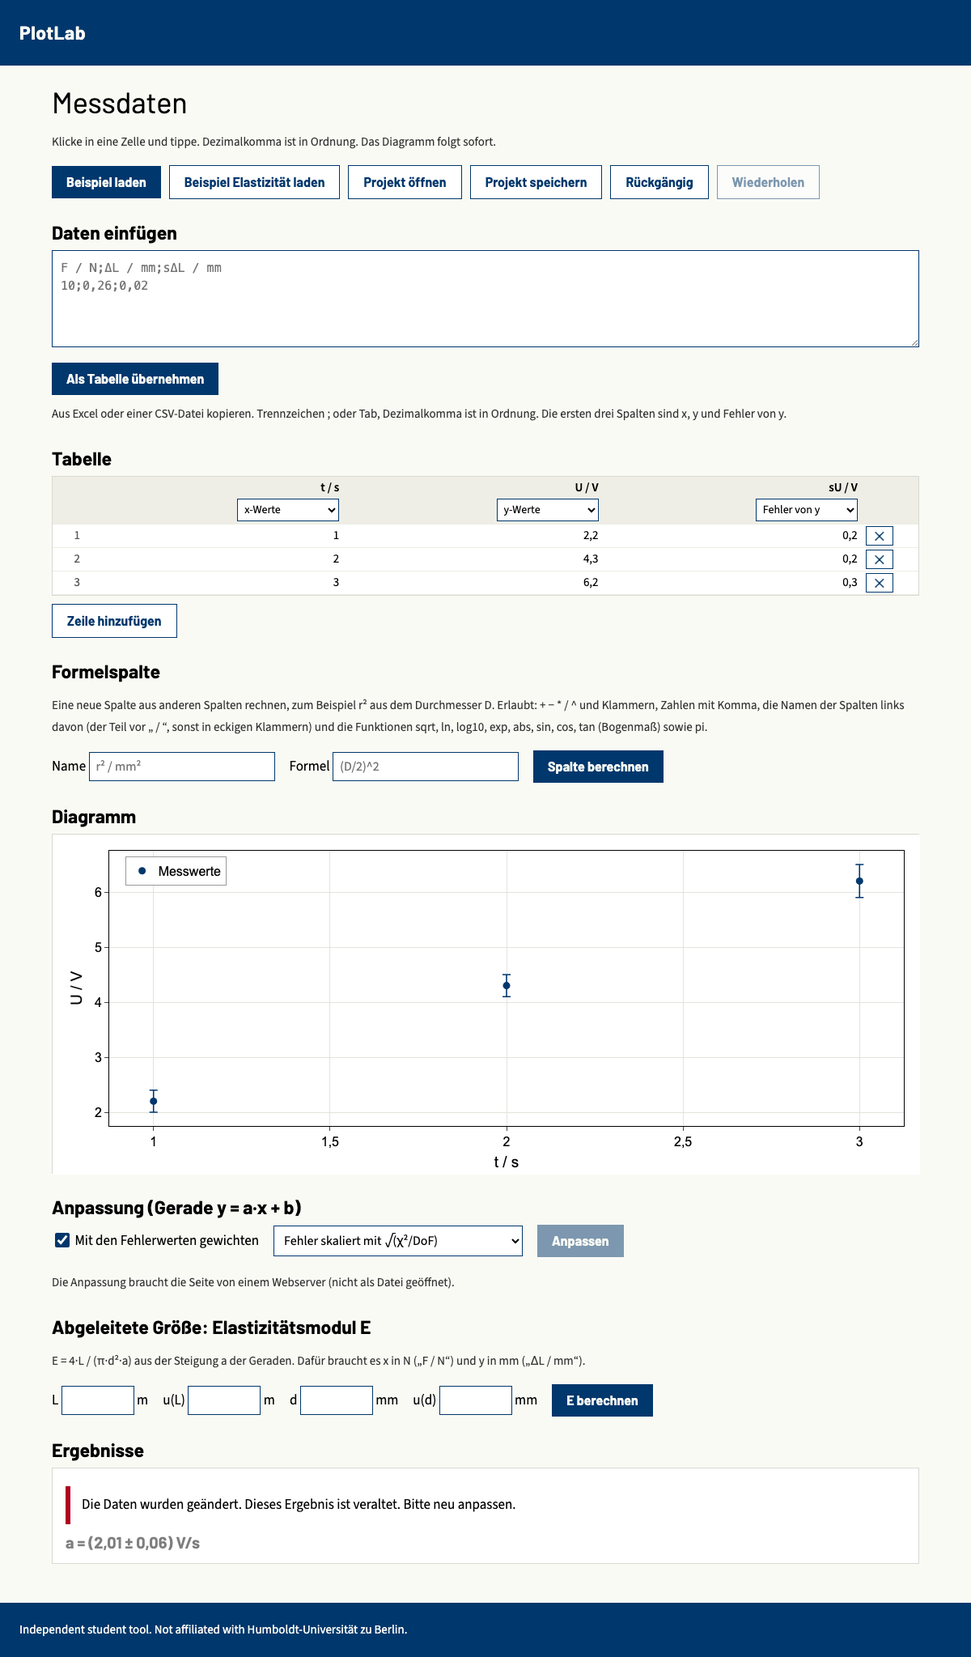
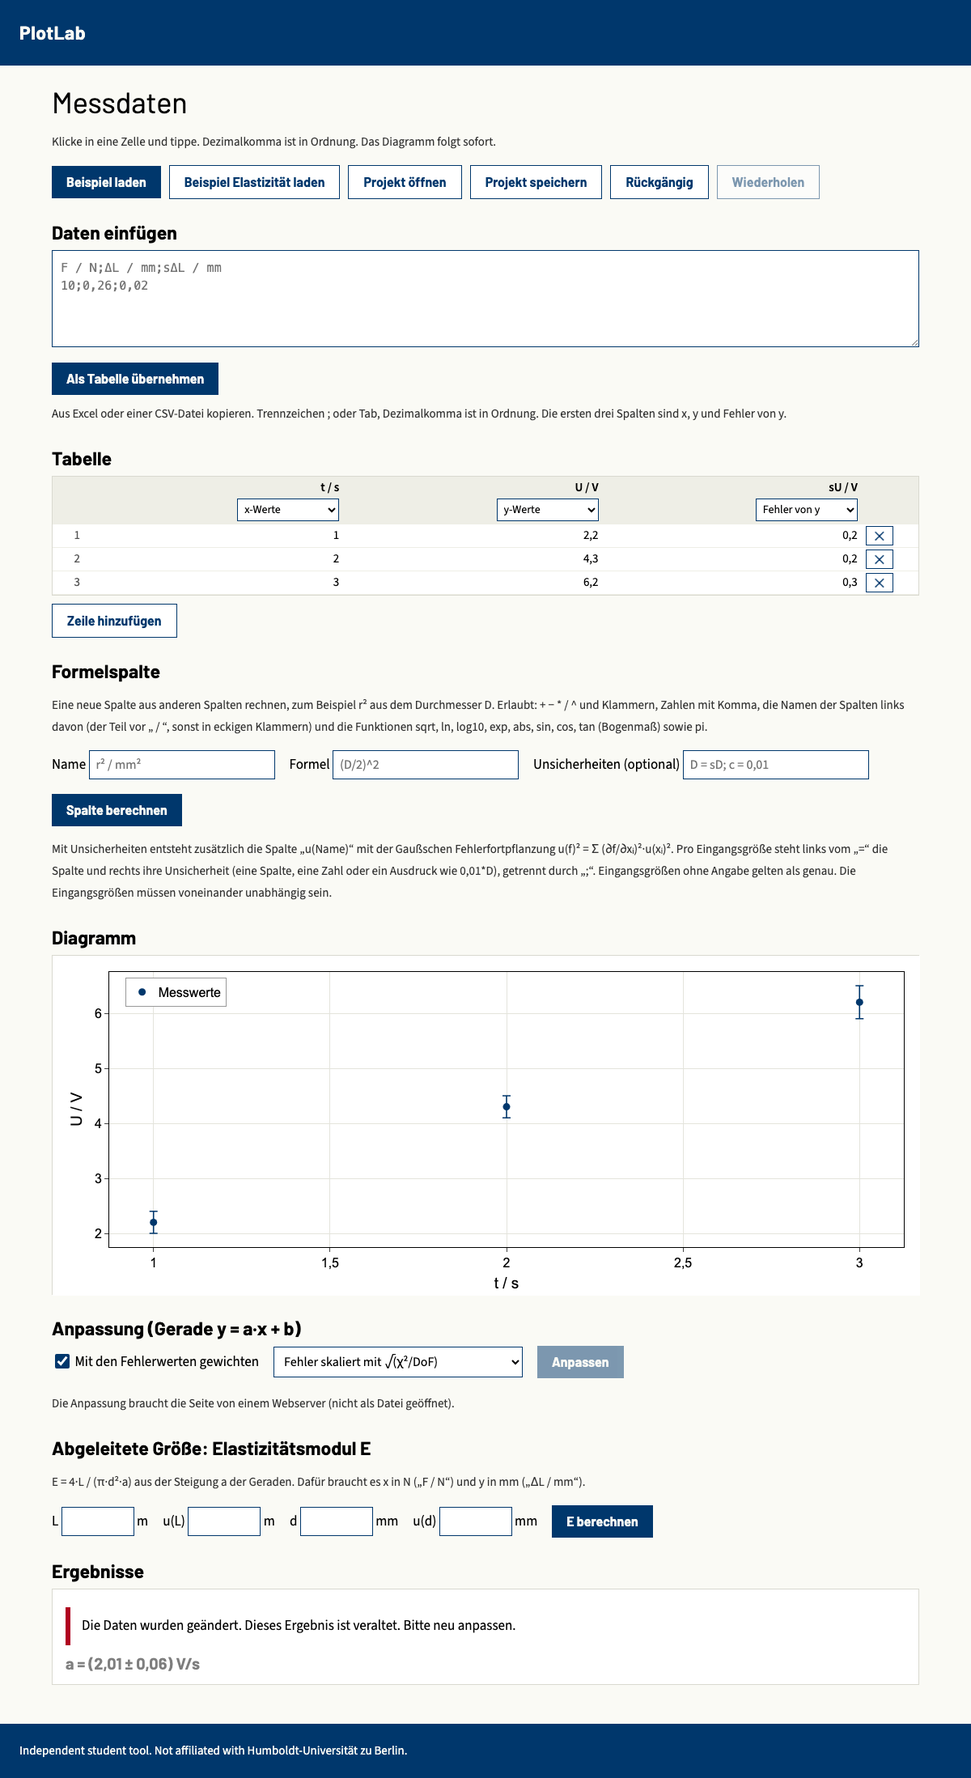
Phase 2 step 2: uncertainty columns with error propagation for formula columns

diff --git a/app/index.html b/app/index.html
@@ -91,8 +91,10 @@
   <div class="fitbar">
     <label>Name <input class="txt" id="f_name" aria-label="Name der neuen Spalte" placeholder="r² / mm²" autocomplete="off"></label>
     <label>Formel <input class="txt" id="f_expr" aria-label="Formel der neuen Spalte" placeholder="(D/2)^2" autocomplete="off" spellcheck="false"></label>
+    <label>Unsicherheiten (optional) <input class="txt" id="f_unc" aria-label="Unsicherheiten der Eingangsgrößen" placeholder="D = sD; c = 0,01" autocomplete="off" spellcheck="false"></label>
     <button class="btn" id="f_add" disabled>Spalte berechnen</button>
   </div>
+  <p class="hint">Mit Unsicherheiten entsteht zusätzlich die Spalte „u(Name)“ mit der Gaußschen Fehlerfortpflanzung u(f)² = Σ (∂f/∂xᵢ)²·u(xᵢ)². Pro Eingangsgröße steht links vom „=“ die Spalte und rechts ihre Unsicherheit (eine Spalte, eine Zahl oder ein Ausdruck wie 0,01*D), getrennt durch „;“. Eingangsgrößen ohne Angabe gelten als genau. Die Eingangsgrößen müssen voneinander unabhängig sein.</p>
   <div id="fmsg" class="msg" role="alert" hidden></div>
   <h2>Diagramm</h2>
   <div id="plot"><div class="empty">Noch keine Daten.</div></div>
@@ -123,6 +125,7 @@
 <script src="../testbuild/parse.js"></script>
 <script src="project.js"></script>
 <script src="formula.js"></script>
+<script src="propagate.js"></script>
 <script src="derive.js"></script>
 <script>
 const $ = id => document.getElementById(id);
@@ -189,14 +192,15 @@ function setProject(p) {
 }
 function showMsg(t) { $("msg").textContent = t; $("msg").hidden = false; }
 
+const isCalc = c => c.formula !== undefined || c.uncert !== undefined;
 const fmtCalc = new Intl.NumberFormat("de-DE", { maximumSignificantDigits: 8 });
 const calcText = (c, i) => c.values[i] === null ? "" : fmtCalc.format(c.values[i]);
 function renderTable() {
   const roleSel = (c, j) => `<select class="role" data-role="${j}" aria-label="Rolle von ${esc(c.name)}">` +
     Object.entries(ROLE_LABELS).map(([r, t]) => `<option value="${r}"${c.role === r ? " selected" : ""}>${t}</option>`).join("") + "</select>";
-  const head = "<tr><th></th>" + proj.columns.map((c, j) => `<th>${esc(c.name)}${c.formula !== undefined ? `<div class="fx">= ${esc(c.formula)}</div>` : ""}${roleSel(c, j)}${c.formula !== undefined ? `<button class="btn alt small" data-delcol="${j}" aria-label="Spalte ${esc(c.name)} entfernen">Spalte entfernen</button>` : ""}</th>`).join("") + "<th></th></tr>";
+  const head = "<tr><th></th>" + proj.columns.map((c, j) => `<th>${esc(c.name)}${c.formula !== undefined ? `<div class="fx">= ${esc(c.formula)}</div>` : ""}${c.uncert ? `<div class="fx">Gauß-Fortpflanzung von ${esc(c.uncert.formula)}: ${esc(c.uncert.map)}</div>` : ""}${roleSel(c, j)}${isCalc(c) ? `<button class="btn alt small" data-delcol="${j}" aria-label="Spalte ${esc(c.name)} entfernen">Spalte entfernen</button>` : ""}</th>`).join("") + "<th></th></tr>";
   const body = Array.from({ length: nrows() }, (_, i) => `<tr><td class="n">${i + 1}</td>` +
-    proj.columns.map((c, j) => c.formula !== undefined ? `<td class="calc" data-calc="${j}">${calcText(c, i)}</td>` : `<td><input data-r="${i}" data-c="${j}" aria-label="${esc(c.name)}, Zeile ${i + 1}" value="${c.values[i] === null ? "" : fmt.format(c.values[i])}" inputmode="decimal"></td>`).join("") +
+    proj.columns.map((c, j) => isCalc(c) ? `<td class="calc" data-calc="${j}">${calcText(c, i)}</td>` : `<td><input data-r="${i}" data-c="${j}" aria-label="${esc(c.name)}, Zeile ${i + 1}" value="${c.values[i] === null ? "" : fmt.format(c.values[i])}" inputmode="decimal"></td>`).join("") +
     `<td><button class="btn alt small" data-del="${i}" aria-label="Zeile ${i + 1} löschen">✕</button></td></tr>`).join("");
   $("table").innerHTML = `<table><thead>${head}</thead><tbody>${body}</tbody></table>`;
 }
@@ -313,8 +317,17 @@ $("f_add").onclick = () => {
   if (proj.columns.some(c => c.name === name)) return fail(`Es gibt schon eine Spalte „${name}“. Bitte einen anderen Namen wählen.`);
   const r = parseFormula(expr, proj.columns);
   if (r.error) return fail(r.error);
-  change(() => proj.columns.push({ name, role: "unused", values: [], formula: expr.trim() }));
-  $("f_name").value = $("f_expr").value = "";
+  const unc = $("f_unc").value.trim(), [short, ...unit] = name.split(" / "), uname = `u(${short.trim()})` + (unit.length ? " / " + unit.join(" / ") : "");
+  if (unc) {
+    if (proj.columns.some(c => c.name === uname)) return fail(`Es gibt schon eine Spalte „${uname}“. Bitte einen anderen Namen wählen.`);
+    const u = parseUncertainty(expr.trim(), unc, proj.columns, proj.columns.length);
+    if (u.error) return fail(u.error);
+  }
+  change(() => {
+    proj.columns.push({ name, role: "unused", values: [], formula: expr.trim() });
+    if (unc) proj.columns.push({ name: uname, role: "unused", values: [], uncert: { formula: expr.trim(), map: unc } });
+  });
+  $("f_name").value = $("f_expr").value = $("f_unc").value = "";
 };
 $("pastego").onclick = () => {
   const r = parseTable($("paste").value);

diff --git a/app/propagate.js b/app/propagate.js
@@ -1,0 +1,65 @@
+// Error propagation for formula columns (Gaussian, independent inputs): u(f)² = Σ (∂f/∂xᵢ)² · u(xᵢ)².
+// A column {name, uncert: {formula, map}} holds u(f) for the formula text `formula`; `map` is "D = sD; c = 0,01":
+// per input column an expression for its uncertainty (a column, a number, or e.g. 0,01*D). Inputs not listed are exact.
+// The partial derivatives are central differences of the parsed formula (no eval), good to about 1e-9 relative.
+const _F = typeof module !== "undefined" ? require("./formula.js") : { parseFormula, FORMULA_HOOKS };
+
+// Returns {fn, refs, terms: [{j, refs, u}]} or {error}. Only columns left of `upto` can be used.
+function parseUncertainty(formula, map, columns, upto) {
+  const f = _F.parseFormula(formula, columns, upto);
+  if (f.error) return f;
+  const entries = String(map).split(";").map(e => e.trim()).filter(Boolean);
+  if (!entries.length) return { error: "Bitte die Unsicherheiten angeben, zum Beispiel D = sD; c = 0,01." };
+  const terms = [];
+  for (const e of entries) {
+    const k = e.indexOf("=");
+    if (k < 0) return { error: `„${e}“: Es fehlt ein „=“. Schreibe zum Beispiel D = sD (Unsicherheit von D steht in Spalte sD) oder D = 0,05.` };
+    const key = e.slice(0, k).trim().replace(/^\[(.*)\]$/, "$1"), j = f.lookup(key);
+    if (j === undefined) return { error: `Unsicherheiten: Unbekannte Spalte „${key}“.` };
+    if (j === -1) return { error: `Unsicherheiten: Der Spaltenname „${key}“ ist nicht eindeutig. Schreibe den vollen Namen in eckigen Klammern.` };
+    if (!f.refs.includes(j)) return { error: `Unsicherheiten: „${key}“ kommt in der Formel nicht vor.` };
+    if (terms.some(t => t.j === j)) return { error: `Unsicherheiten: „${key}“ ist doppelt angegeben.` };
+    const u = _F.parseFormula(e.slice(k + 1), columns, upto);
+    if (u.error) return { error: `Unsicherheit von „${key}“: ${u.error}` };
+    terms.push({ j, refs: u.refs, u: u.fn });
+  }
+  return { fn: f.fn, refs: f.refs, terms };
+}
+
+// ∂f/∂x_j at `row`: central difference; at the edge of the domain (sqrt at 0) one-sided.
+function partial(fn, row, j) {
+  const x = row[j], h = 1e-6 * (Math.abs(x) || 1), f0 = () => fn(row);
+  const at = d => { const r = row.slice(); r[j] = x + d; const v = fn(r); if (!Number.isFinite(v)) throw "Das Ergebnis ist keine endliche Zahl"; return v; };
+  let last = "Ableitung nicht berechenbar";
+  for (const d of [() => (at(h) - at(-h)) / (2 * h), () => (at(h) - f0()) / h, () => (f0() - at(-h)) / h]) {
+    try { return d(); } catch (e) { if (typeof e !== "string") throw e; last = e; }
+  }
+  throw last;
+}
+
+// Fills column c (index j of columns, n rows) with u(f); returns German messages like recalcFormulas does.
+function propagateColumn(c, columns, j, n) {
+  const r = parseUncertainty(c.uncert.formula, c.uncert.map, columns, j);
+  if (r.error) { c.values = Array(n).fill(null); return [`Spalte „${c.name}“: ${r.error}`]; }
+  const need = [...new Set([...r.refs, ...r.terms.flatMap(t => t.refs)])], bad = [];
+  c.values = Array.from({ length: n }, (_, i) => {
+    const row = columns.map(k => k.values[i]);
+    if (need.some(k => row[k] === null || row[k] === undefined)) return null;
+    try {
+      let s = 0;
+      for (const t of r.terms) {
+        const u = t.u(row);
+        if (!Number.isFinite(u) || u < 0) throw "Die Unsicherheit ist negativ oder keine Zahl";
+        s += (partial(r.fn, row, t.j) * u) ** 2;
+      }
+      return Math.sqrt(s);
+    } catch (e) {
+      if (typeof e !== "string") throw e;
+      bad.push([i + 1, e]); return null;
+    }
+  });
+  return bad.length ? [`Spalte „${c.name}“, Zeile ${bad[0][0]}: ${bad[0][1]}. Der Wert bleibt leer.` + (bad.length > 1 ? ` Weitere betroffene Zeilen: ${bad.slice(1).map(b => b[0]).join(", ")}.` : "")] : [];
+}
+_F.FORMULA_HOOKS.uncert = propagateColumn;
+
+if (typeof module !== "undefined") module.exports = { parseUncertainty, propagateColumn };

diff --git a/app/formula.js b/app/formula.js
@@ -11,8 +11,11 @@ FORMULA_FUNCTIONS.wurzel = FORMULA_FUNCTIONS.sqrt;
 const FORMULA_CONSTANTS = { pi: Math.PI };
 const FORMULA_MAX_LENGTH = 300;
 const shortName = n => n.split(" / ")[0].trim();
+// Other files (propagate.js) register how to recalculate special columns here: FORMULA_HOOKS.uncert(column, columns, index, rows).
+const FORMULA_HOOKS = {};
 
-// Returns {fn, refs} (fn(valuesOfRow) -> number, refs = column indexes it reads) or {error} (German message).
+// Returns {fn, refs, lookup} (fn(valuesOfRow) -> number, refs = column indexes it reads, lookup(name) -> column index,
+// undefined if unknown, -1 if ambiguous) or {error} (German message).
 // ponytail: names are looked up among columns 0..upto-1 only.
 function parseFormula(text, columns, upto = columns.length) {
   const src = String(text).replace(/[·×]/g, "*").replace(/−/g, "-").replace(/÷/g, "/");
@@ -100,7 +103,7 @@ function parseFormula(text, columns, upto = columns.length) {
   try {
     const fn = expr();
     if (peek().t !== "end") fail(`Unerwartet: ${show(peek())}. Fehlt ein Operator (+ − * / ^)?`);
-    return { fn, refs: [...refs] };
+    return { fn, refs: [...refs], lookup };
   } catch (e) {
     if (e && typeof e.parse === "string") return { error: e.parse };
     throw e;
@@ -112,6 +115,7 @@ function parseFormula(text, columns, upto = columns.length) {
 function recalcFormulas(p) {
   const msgs = [], n = p.columns[0].values.length;
   p.columns.forEach((c, j) => {
+    if (c.uncert && FORMULA_HOOKS.uncert) { msgs.push(...FORMULA_HOOKS.uncert(c, p.columns, j, n)); return; }
     if (typeof c.formula !== "string") return;
     const r = parseFormula(c.formula, p.columns, j);
     if (r.error) { c.values = Array(n).fill(null); msgs.push(`Spalte „${c.name}“: ${r.error}`); return; }
@@ -133,4 +137,4 @@ function recalcFormulas(p) {
   return msgs;
 }
 
-if (typeof module !== "undefined") module.exports = { parseFormula, recalcFormulas };
+if (typeof module !== "undefined") module.exports = { parseFormula, recalcFormulas, shortName, FORMULA_HOOKS };

diff --git a/app/project.js b/app/project.js
@@ -37,7 +37,8 @@ function open(text) {
   if (!p || p.format !== "datenplot-projekt") return { error: "Die Datei ist kein Projekt dieser Anwendung." };
   if (p.version !== 1) return { error: `Projektversion ${p.version} wird nicht unterstützt.` };
   const ok = Array.isArray(p.columns) && p.columns.length && Array.isArray(p.results) && p.settings &&
-    p.columns.every(c => typeof c.name === "string" && (c.formula === undefined || typeof c.formula === "string") && ROLES.includes(c.role) && Array.isArray(c.values) &&
+    p.columns.every(c => typeof c.name === "string" && (c.formula === undefined || typeof c.formula === "string") &&
+      (c.uncert === undefined || (c.uncert !== null && typeof c.uncert.formula === "string" && typeof c.uncert.map === "string")) && ROLES.includes(c.role) && Array.isArray(c.values) &&
       c.values.length === p.columns[0].values.length && c.values.every(v => v === null || Number.isFinite(v)));
   return ok ? { project: p } : { error: "Das Projekt ist beschädigt: Spalten oder Werte fehlen oder sind keine Zahlen." };
 }

diff --git a/docs/progress.md b/docs/progress.md
@@ -8,7 +8,7 @@ Read by every round of the loop (see docs/loop-prompt.md). Keep the first line e
 Phase 1 is finished (see `docs/phase1-report.md`). Phase 2 **assumes P1 to P9** of `docs/lab-assignments-checklist.md` because the real experiment list from Luis's daughter is not known yet; revise these steps when she answers. Every number test uses hand calculations or textbook table values written separately from the app, never the app's own output. Every step ends with `bash scripts/check.sh` passing, a browser test with a screenshot, and one bad-input check. Also move what the app borrows from `testbuild/` (fonts, Plotly, round.js, parse.js, fit worker, Pyodide) into `app/` at the first step that touches it, and keep `testbuild/` tests passing until then.
 
 - [x] 1. Formula columns, values only (P2, P5, P6): a new column defined by a formula over other columns (`+ - * / ^`, `sqrt`, `ln`, `log10`, `pi`, German column names, decimal comma). Recalculates when data changes, saved in the project, undo works. Test: r² and d·c columns from the P5 sheet against hand values; a formula with an unknown column name or a division by zero shows a clear message.
-- [ ] 2. Error propagation for formula columns (P2, P5, P6): optional uncertainty column per formula result, Gaussian propagation from the uncertainties of the inputs (independent inputs). Test: product, quotient and square-root cases against hand-derived partial derivatives, including the Wheatstone bridge Rx = R1·R2/R3 case.
+- [x] 2. Error propagation for formula columns (P2, P5, P6): optional uncertainty column per formula result, Gaussian propagation from the uncertainties of the inputs (independent inputs). Test: product, quotient and square-root cases against hand-derived partial derivatives, including the Wheatstone bridge Rx = R1·R2/R3 case.
 - [ ] 3. Mean, standard deviation (n or n−1, chosen by the student), standard error, and random plus instrument error combined in quadrature (P2 volume measurement, P1). Test: a 10-value sample against hand values for both choices of n; result lines in HU format.
 - [ ] 4. Weighted mean with uncertainty and an overlap check of several results (P2). Test: three volume results with different uncertainties against hand values (w = 1/u², mean, 1/√Σw); the overlap verdict (within k·u) matches the hand check.
 - [ ] 5. Frequency table (absolute, relative, cumulative) and histogram with the fitted normal curve (P1). Test: 30 hand-made readings, bin counts and normal-curve height against hand values; axis labels carry quantity and unit.
@@ -76,3 +76,4 @@ Phase 1 is finished (see `docs/phase1-report.md`). Phase 2 **assumes P1 to P9** 
 - 2026-10-14, Phase 1 step 7: The line fit was checked against independent references and the check found a real weakness: the old fit (SciPy `curve_fit`, which iterates) matched the official NIST dataset Norris (36 points) only to 7.6 digits for the intercept and 5.5 digits for the slope error. The straight-line fit now solves the problem directly (SVD least squares in the Python worker), and `curve_fit` stays for Michaelis-Menten and the NIST nonlinear checks. Result against NIST certified values: slope 1,00211681802 and intercept -0,262323073774 correct to 9 or more digits, standard errors (0,000429796848 and 0,232818234301) 9 digits, residual sum of squares 26,6173985294 and 34 degrees of freedom exact. Weighted fits: (1) with equal errors the scaled-error weighted fit must equal the unweighted one, so it matches NIST too (9 digits); (2) a 7-point case with unequal errors checked against a separate Python script (`tests/reference/weighted_line.py`, exact fractions, other formulas): a = 1,86588504, b = 0,85012444, scaled errors 0,0736838 and 0,151466, unscaled 0,0512457 and 0,105342, χ² 10,3371, all 9 digits. On screen: Norris reads a = (1,0021 ± 0,0004), b = (-0,26 ± 0,23); the 7-point case a = (1,87 ± 0,07) scaled and (1,87 ± 0,05) unscaled, both rounded by hand. Test: `tests/phase1-step7-reference.sh` (failed with the old code, passes now); all 14 checks in `scripts/check.sh` pass. Screenshots `evidence/phase1-step7-norris.png`, `-weighted.png` judged OK. Not yet: R is not installed, so the R comparison stays open (see Blocked); NIST has no certified weighted linear dataset, so the weighted case rests on the hand calculation.
 - 2026-10-14, Phase 1 step 8 and Phase 1 gate: P3 Elasticity now runs start to finish in the real page: paste six German-format rows, press "Anpassen", enter L, u(L), d, u(d), press "E berechnen", save. Result: a = (0,02529 ± 0,00029) mm/N, E = (201 ± 8) GPa (the hand-calculated numbers). Measured by `tests/phase1-step8-timed.sh`: 9 user actions, 219 to 291 ms of machine time over four runs (Apple M5, headless Chromium, local server), plus 4.6 to 5.3 s once per visit for Python to load. The same task in Excel is about 40 actions, but that count is my estimate from the steps, not a measurement with a person. Edit, undo and save/reopen in a fresh browser profile keep everything (checked in the same test). Added a "Daten einfügen" box so a student can start with their own numbers (before, only examples or a saved project were possible), and the fit details no longer name `absolute_sigma`: they say "gewichtete Methode der kleinsten Quadrate (Gewichte 1/s²); Fehler mit √(χ²/DoF) skaliert" or "unskaliert, direkt aus den Fehlerwerten". Bad pastes (empty, letters) give clear messages. All 15 checks in `scripts/check.sh` pass; screenshot `evidence/phase1-step8-timed.png` judged OK. Wrote `docs/phase1-report.md`: gate passed except the R comparison and a human timing, both under "For Luis". PHASE is now 2; Phase 2 steps (assuming P1 to P9) written above.
 - 2026-10-14, Phase 2 step 1: A student can now add a formula column under the table ("Formelspalte"): a name such as "r² / mm²" and a formula such as (D/2)^2 or d*c or sqrt([r²])+0,5. Allowed: + - * / ^ (also ², ·, ×, −, ÷), brackets, numbers with decimal comma or point, names of columns to the left (the part before " / ", or the full name in [brackets]), the functions sqrt, ln, log10, exp, abs, sin, cos, tan, and pi. The column recalculates when data changes (edit, add row, undo, redo), is saved in the project and in autosave, can get a role (for example y) and then drives the plot, and can be removed. The formula text is never run as code: it is read by a small parser (`app/formula.js`, no eval). Tested by hand-worked values: P5-style Newton's rings, r² = (D/2)² = 1; 2,25; 4; 6,25 and after editing D to 2,2 r² = 1,21; polarimetry d·c = 0,2; 0,4; 0,6; 0,8; precedence (2^3^2 = 512, -2^2 = -4, 8/4/2 = 1); 13 attempts to smuggle code ("alert(1)", "constructor", "process.exit()" and so on) all give a parse message. Bad input gives clear German messages: unknown column "foo" (lists the usable names, nothing is added), unknown function, missing bracket, empty name or formula, duplicate name, division by zero (the cell stays empty and the message names the row, for example "Spalte „q / mm“, Zeile 1: Division durch 0. Der Wert bleibt leer."), root or logarithm of a negative number. A hand-edited project file with wrong stored numbers is recomputed on opening, and names or formulas with <script> or <img onerror> are shown as text and never run. Tests: `tests/phase2-step1-formula.sh` (parser in Node, then the real page in Chromium); all 16 checks in `scripts/check.sh` pass. Screenshots `evidence/phase2-step1-formula.png` and `-error.png` judged OK (header shows the formula, calculated cells shaded, decimal commas, error in red box). Not yet: no uncertainty for formula columns (step 2); a formula cannot be edited in place (remove and add again); no column names with superscripts as short names (use [r²]).
+- 2026-10-14, Phase 2 step 2: A student can now give a formula column uncertainties ("Unsicherheiten", e.g. `R1 = sR1; R2 = sR2; R3 = sR3`) and gets a second column "u(Rx)" with Gaussian error propagation; inputs not listed count as exact, the right-hand side may be a column, a number or an expression like 0,01*D. The u column updates with the data, is saved, undone and restored like other columns, and can be the y error of the plot (error bars follow). Slopes of the formula are taken numerically (central differences on the parsed formula, no eval), good to about 1e-9 relative. Tested (`tests/phase2-step2-propagate.sh`) against hand-derived partial derivatives, never the app: Wheatstone Rx = 50, u = 0,4330127; Rx = 180, u = 1,5130834 (also confirmed in a separate Python run with exact fractions); product, quotient, sqrt (4 ± 0,2 gives 0,05), ln, 2^x, sum 3-4-5 (0,5), x·x with one input used twice (0,6, not 0,424), constant and relative uncertainty; in the real page with undo, reload, save/open, plot error bars and a hand-edited project with script text in the new fields (nothing ran). Bad input (unknown column, missing "=", input not in formula, twice, duplicate name, negative uncertainty, division by zero) gives clear German messages. All 17 checks in `scripts/check.sh` pass. Screenshots `evidence/phase2-step2-propagate.png`, `-error.png` judged OK. Limits: inputs assumed independent (stated on the page; a formula on top of another formula column that shares inputs is the student's responsibility); the formula and the uncertainty text cannot be edited in place; new code in `app/propagate.js`.

diff --git a/CHANGELOG.md b/CHANGELOG.md
@@ -2,6 +2,13 @@
 
 Written in plain language for people who do not read code. Newest entry on top.
 
+## 2026-10-14: Uncertainties for formula columns (P2, P5, P6)
+
+- **What a student can now do:** in "Formelspalte" fill the new field "Unsicherheiten", for example `R1 = sR1; R2 = sR2; R3 = sR3` for the Wheatstone bridge Rx = R1·R2/R3. Next to Rx the app adds a column "u(Rx)" with the Gaussian error propagation. Each input gets a column, a number or an expression such as 0,01*D as its uncertainty; inputs you leave out count as exact. The new column updates when data changes, is saved with the project, and can be set as "Fehler von y" so the plot shows the error bars.
+- **Messages:** an unknown column, a missing "=", an input that is not in the formula, an input named twice, a negative uncertainty or a division by zero gives a plain German message. Nothing is added when the input is wrong.
+- **Limits:** the inputs must be independent of each other (stated on the page). The formula is still never run as code.
+- **Tested:** `tests/phase2-step2-propagate.sh` against partial derivatives worked out by hand, for example Rx = 50 with u = 0,4330 and Rx = 180 with u = 1,5131 for the Wheatstone rows, product, quotient, square root, logarithm, power, sum, a squared input (x·x), and in the real page with undo, save, reopen and a hand-edited project file.
+
 ## 2026-10-14: Formula columns (Physics 2 experiments P2, P5, P6)
 
 - **What a student can now do:** add a new column that is calculated from other columns, for example r² = (D/2)^2 for Newton's rings or d·c for polarimetry. Type a name and a formula under "Formelspalte" and press "Spalte berechnen". Decimal commas, brackets, + − * / ^ and the functions sqrt, ln, log10, exp, abs, sin, cos, tan and pi work. The column updates by itself when a number is changed, can be used as the x or y column of the plot, is saved with the project, and can be removed again.
